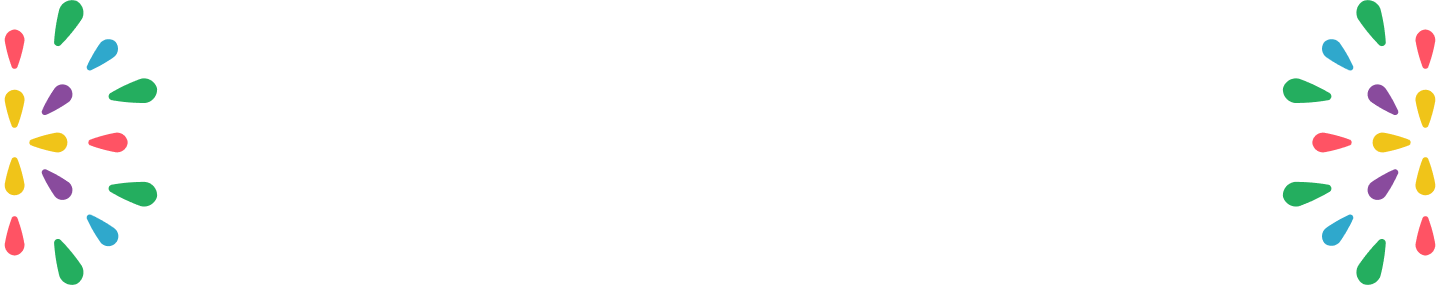
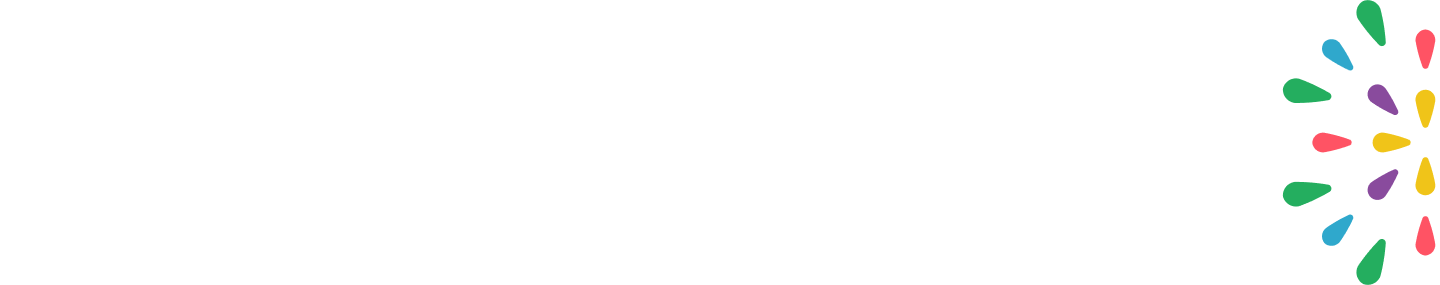
Playground voltado para construção de um jogo de tabuleiro, The Cult

diff --git a/TheCult.playground/Contents.swift b/TheCult.playground/Contents.swift
@@ -25,28 +25,31 @@ class FirstViewController : UIViewController {
         view.backgroundColor = .white
         navigationController?.navigationBar.isHidden = true
         
-    
+        
         let imgBackground = UIImageView(frame: CGRect(x: 0, y: 0, width: 1440, height: 900))
         imgBackground.image = UIImage(imageLiteralResourceName: "Background")
         
-        let theCult = UIImageView(frame: CGRect(x: 560, y: 150, width: 323.35, height: 260.19))
+        let theCult = UIImageView(frame: CGRect(x: 520, y: 150, width: 363, height: 300))
         theCult.image = UIImage(imageLiteralResourceName: "theCult")
         
         
         let imgView = UIImageView(frame: CGRect(x: 118, y: 126, width: 1204, height: 660))
         imgView.image = UIImage(imageLiteralResourceName: "Rectangle 10")
         
-        var monocle = UIImageView(frame: CGRect(x: 790, y: 200, width: 52.54, height: 43.94))
+        var monocle = UIImageView(frame: CGRect(x: 780, y: 0, width: 52.54, height: 43.94))
         monocle.image = UIImage(imageLiteralResourceName: "monocle")
+       
+        DispatchQueue.main.asyncAfter(deadline: .now() + 0.1) {
+
+           
+           UIView.animate(withDuration: 1.8, delay: 0.3, options: .beginFromCurrentState, animations: { () -> Void in
+            monocle.center.y = 235
+
+           })
+               
+           }
         
-        
-        UIView.animate(withDuration: 2.0, delay: 0.3, options: .beginFromCurrentState, animations: { () -> Void in
-                  monocle.center = view.center
-                  
-              })
-        
-        
-        buttonPlay.frame = CGRect(x: 312, y: 380, width: 780, height: 140)
+        buttonPlay.frame = CGRect(x: 312, y: 420, width: 780, height: 140)
         
         let imagePlay = UIImage(named: "Play")!
         buttonPlay.setImage(imagePlay, for: .normal)
@@ -55,7 +58,7 @@ class FirstViewController : UIViewController {
         buttonPlay.addTarget(self, action: #selector(FirstViewController.touchedButtonPlay), for: .touchUpInside)
         
         
-        buttonGallery.frame = CGRect(x: 334, y: 510, width: 759, height: 140)
+        buttonGallery.frame = CGRect(x: 334, y: 550, width: 759, height: 140)
         let imageGallery = UIImage(named: "gallery")!
         buttonGallery.setImage(imageGallery, for: .normal)
         
@@ -73,13 +76,13 @@ class FirstViewController : UIViewController {
         self.view = view
         
     }
-      
-        
+  
+    
     @IBAction func touchedButtonPlay() {
         print("tocou botão jogar")
         let vc = SecondViewController(screenType: .mac, isPortrait: true)
         navigationController?.pushViewController(vc, animated: true)
-
+        
     }
     
     @IBAction func touchedButtonGallery() {
@@ -89,7 +92,8 @@ class FirstViewController : UIViewController {
     }
     
 }
-    
+
+
 
 class SecondViewController: UIViewController {
     
@@ -722,6 +726,7 @@ class TenthViewController: UIViewController, UICollectionViewDataSource, UIColle
     
     let cultureGallery = UILabel()
     var myCollectionView: UICollectionView?
+    let backButton = UIButton()
     
     override func loadView() {
         let view = UIView()
@@ -751,6 +756,13 @@ class TenthViewController: UIViewController, UICollectionViewDataSource, UIColle
         myString.append(NSAttributedString(string: "Veja o que você aprendeu!", attributes: bigAtt as [NSAttributedString.Key : Any]))
         myString.addAttribute(NSAttributedString.Key.paragraphStyle, value:paragraphStyle, range:NSMakeRange(0, myString.length))
         
+        backButton.frame = CGRect(x: 70, y: 79, width: 92, height: 92)
+               
+               let imageBackButton = UIImage(named: "back")!
+               backButton.setImage(imageBackButton, for: .normal)
+        
+        backButton.addTarget(self, action: #selector(EleventhViewController.touchedButtonBack), for: .touchUpInside)
+        
         
         cultureGallery.attributedText = myString
         
@@ -771,6 +783,14 @@ class TenthViewController: UIViewController, UICollectionViewDataSource, UIColle
         view.addSubview(firework)
         view.addSubview(cultureGallery)
         view.addSubview(myCollectionView!)
+        view.addSubview(backButton)
+        
+    }
+    
+    @IBAction func touchedButtonBack() {
+    print("tocou botão voltar")
+    let vc = FirstViewController(screenType: .mac, isPortrait: true)
+    navigationController?.pushViewController(vc, animated: true)
         
     }
     
@@ -796,8 +816,8 @@ class TenthViewController: UIViewController, UICollectionViewDataSource, UIColle
     func collectionView(_ collectionView: UICollectionView, didSelectItemAt indexPath: IndexPath) {
         
         if indexPath.row == 0 {
-        let vc = EleventhViewController(screenType: .mac, isPortrait: true)
-        navigationController?.pushViewController(vc, animated: true)
+            let vc = EleventhViewController(screenType: .mac, isPortrait: true)
+            navigationController?.pushViewController(vc, animated: true)
         }
     }
 }
@@ -806,7 +826,8 @@ class EleventhViewController: UIViewController {
     
     let cultureGallery = UILabel()
     let labelCulture = UILabel()
-
+    let backButton = UIButton()
+    
     override func loadView() {
         let view = UIView()
         view.backgroundColor = .white
@@ -830,6 +851,13 @@ class EleventhViewController: UIViewController {
         cultureGallery.numberOfLines = 0
         cultureGallery.textAlignment = .center
         
+        backButton.frame = CGRect(x: 70, y: 79, width: 92, height: 92)
+               
+               let imageBackButton = UIImage(named: "back")!
+               backButton.setImage(imageBackButton, for: .normal)
+        
+        backButton.addTarget(self, action: #selector(EleventhViewController.touchedButtonBack), for: .touchUpInside)
+        
         
         let paragraphStyle = NSMutableParagraphStyle()
         paragraphStyle.lineHeightMultiple = 0.8
@@ -852,7 +880,13 @@ class EleventhViewController: UIViewController {
         view.addSubview(firework)
         view.addSubview(china)
         view.addSubview(labelCulture)
+        view.addSubview(backButton)
         
+    }
+    @IBAction func touchedButtonBack() {
+            print("tocou botão voltar")
+            let vc = TenthViewController(screenType: .mac, isPortrait: true)
+            navigationController?.pushViewController(vc, animated: true)
     }
 }
 
